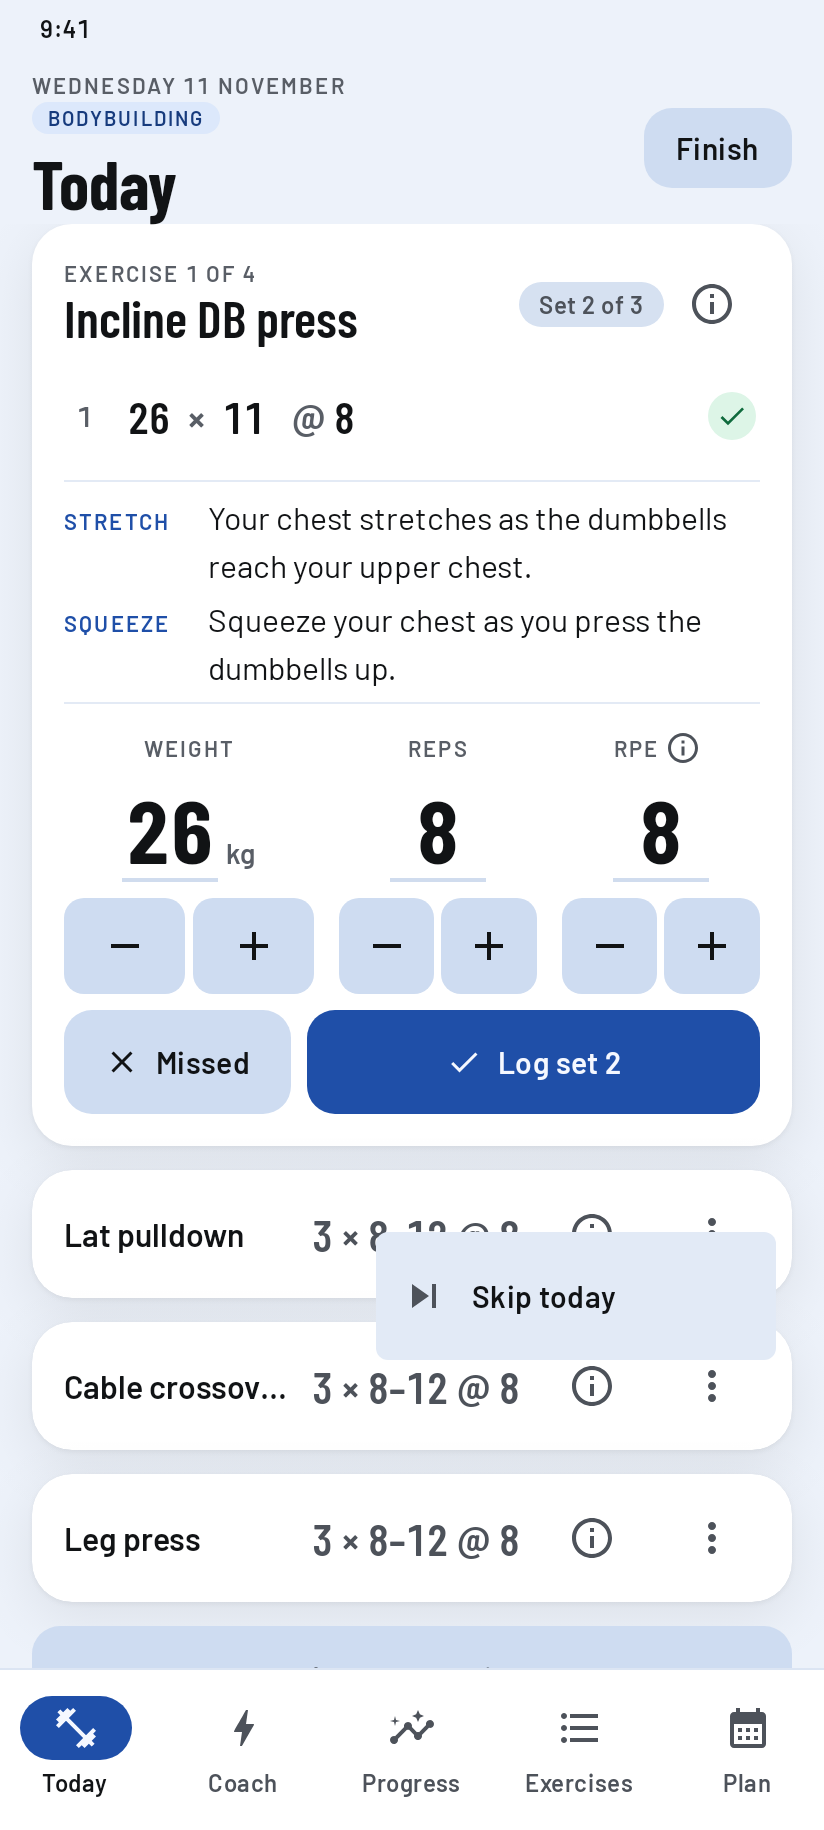
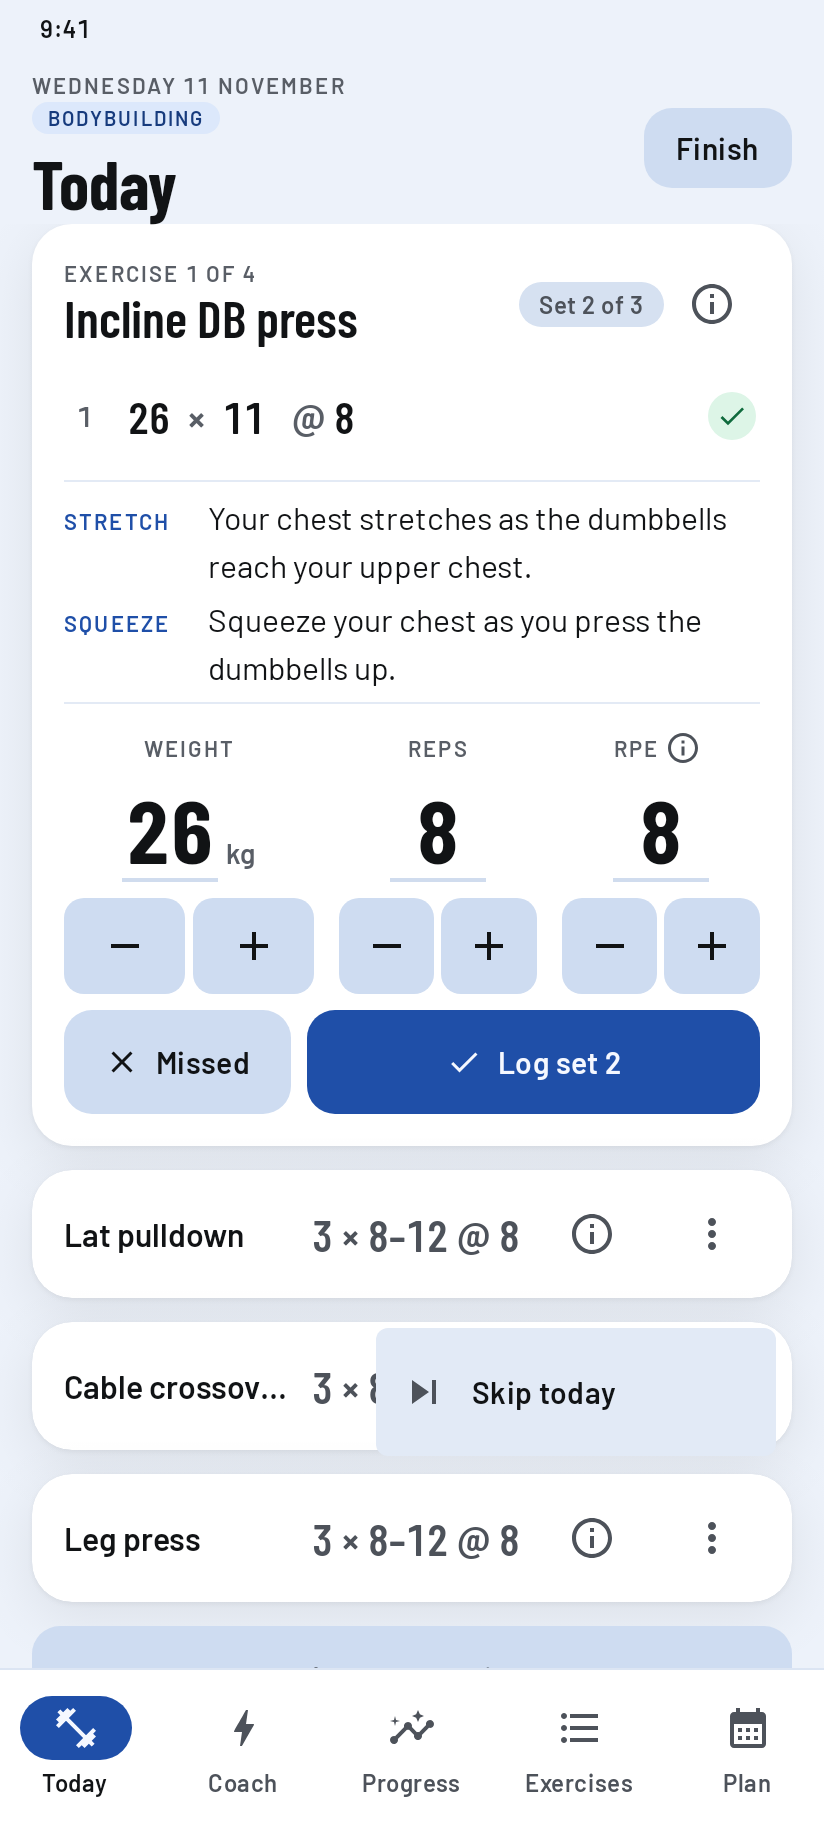
test(app): pin a skipped exercise added again; the skip menu shot per side
A skipped exercise added again from the picker shows as an added row
and its skip stays; a test pins that for the owner to rule on. The
bodybuilding skip-menu shot now drops from its second row. The backup
test's note says what it really checks.

Claude-Session: https://claude.ai/code/session_01KboHw6FdBYrNDSMx1QWyzy

Changed region(s): [[0.4551, 0.6541, 0.9405, 0.8098]]

diff --git a/app/src/test/kotlin/com/powertracker/ui/SkipTodayViewModelTest.kt b/app/src/test/kotlin/com/powertracker/ui/SkipTodayViewModelTest.kt
@@ -454,6 +454,33 @@ class SkipTodayViewModelTest {
     private fun skipCards(): List<AdvicePayload.Skipped> = runBlocking { advice.all() }
         .filter { it.type == AdviceType.SKIP && it.status == AdviceStatus.OPEN }.map { it.payload as AdvicePayload.Skipped }
 
+    /** Pins today's behaviour for the owner to rule on (report, call 8): a skipped exercise added again from the picker. */
+    @Test
+    fun skippedExercise_addedFromThePicker_showsAsAdded_andItsSkipStays() {
+        val items = threePlanned()
+        runBlocking { training.startSession(today, null, null) }
+        val vm = viewModel()
+        await("rows") { ids(vm).size == 3 }
+        vm.skip(bench.id, items[1], SkipReason.BUSY)
+        await("bench leaves") { ids(vm) == listOf(squat.id, row.id) }
+
+        vm.addExercise(bench.id)
+
+        // Back as an added row (Remove, no plan), off the skipped line; its skip is still stored.
+        await("bench added") { ids(vm) == listOf(squat.id, row.id, bench.id) }
+        assertEquals(null, vm.state.value.items.last().planned)
+        assertEquals(emptyList<SkippedToday>(), vm.state.value.skippedToday)
+        assertEquals(1, storedSkips().size)
+
+        // Once a set is logged it is the planned row again, and Finish still counts the skip.
+        vm.logSet(null, bench.id, set(bench, 80.0))
+        await("bench planned again") { ids(vm) == listOf(squat.id, bench.id, row.id) }
+        assertEquals(items[1], vm.state.value.items[1].planned?.id)
+        vm.finishSession()
+        await("summary") { vm.state.value.summary != null }
+        assertEquals(1, vm.state.value.summary?.skipped)
+    }
+
     @Test
     fun skip_doubleCall_storesOneSkipAndOneEvent() {
         val items = threePlanned()

diff --git a/app/src/test/kotlin/com/powertracker/data/BackupTest.kt b/app/src/test/kotlin/com/powertracker/data/BackupTest.kt
@@ -436,7 +436,7 @@ class BackupTest {
         }
     }
 
-    /** 1.13: a version 5 file restored over other version 5 skips replaces them, clashing ids and keys included. */
+    /** 1.13: a version 5 file restored over other version 5 skips replaces them, one on the same date, side and exercise included. */
     @Test
     fun v5File_restoredOverOtherSkips_replacesThem() = runTest {
         seedBothSides()
@@ -444,7 +444,7 @@ class BackupTest {
         val exported = service.export(1L)
         val text = Backup.encode(exported)
 
-        // Different skips now: one on the same date, side and exercise with another reason, and new ones.
+        // Different skips now, under new ids: one on the same date, side and exercise with another reason, and three more.
         db.skips().clear()
         db.advice().clear()
         val training = TrainingRepository(db)

diff --git a/app/src/test/kotlin/com/powertracker/ui/design/SkipShowcase.kt b/app/src/test/kotlin/com/powertracker/ui/design/SkipShowcase.kt
@@ -92,7 +92,7 @@ fun TodaySkipMenuShowcase(mode: TrainingMode = TrainingMode.POWERLIFTING) {
         SkipToday(mode)
         // Where the menu drops from the second row's ⋮.
         Surface(
-            Modifier.align(Alignment.TopEnd).padding(top = 588.dp, end = 24.dp).width(200.dp),
+            Modifier.align(Alignment.TopEnd).padding(top = if (mode == TrainingMode.BODYBUILDING) 636.dp else 588.dp, end = 24.dp).width(200.dp),
             shape = MenuDefaults.shape,
             color = MenuDefaults.containerColor,
             tonalElevation = MenuDefaults.TonalElevation,
